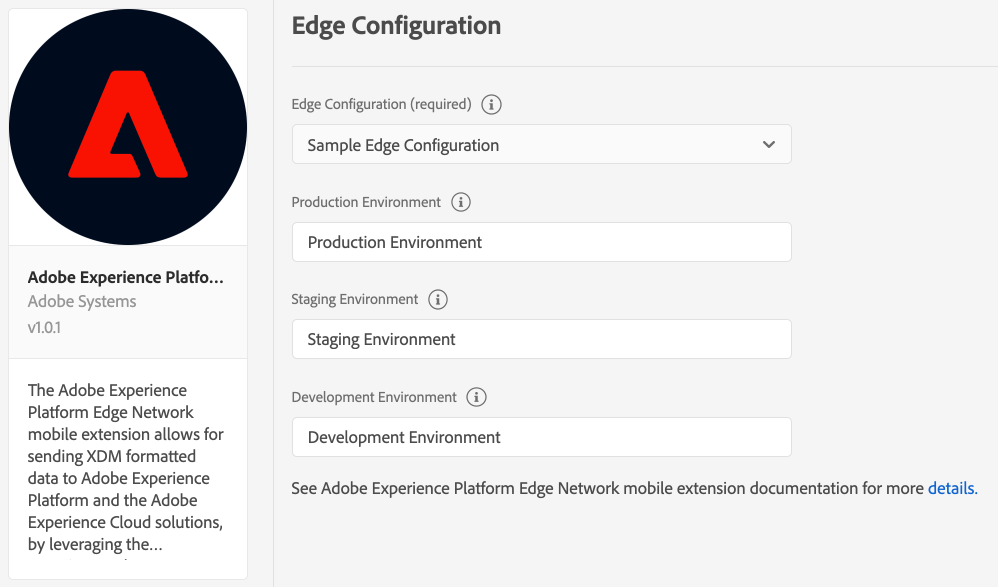
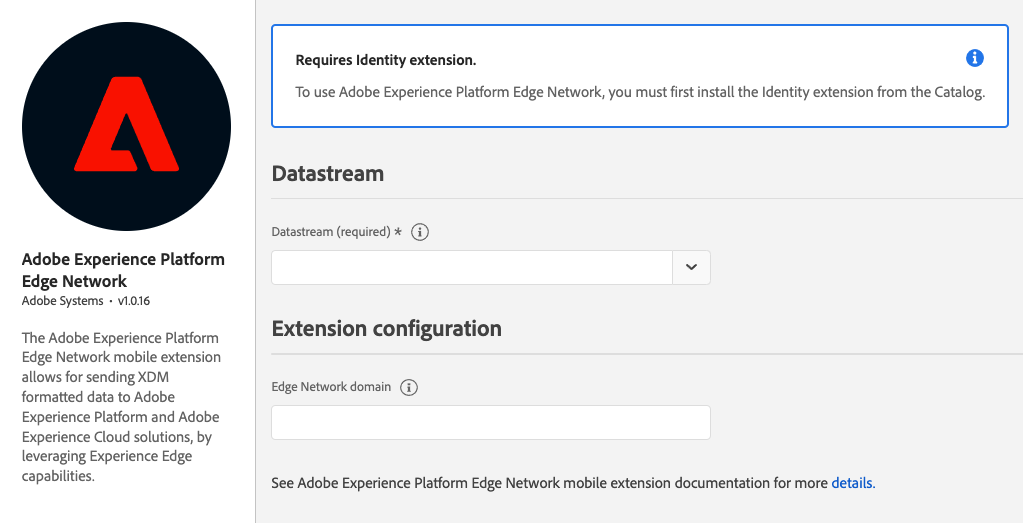
Update Edge configuration with new Launch UI and Edge Network domain field

diff --git a/foundation-extensions/experience-platform-extension/README.md b/foundation-extensions/experience-platform-extension/README.md
@@ -16,21 +16,25 @@ The Adobe Experience Platform Edge Network extension requires the Identity for E
 4. Click **Save**.
 5. Follow the publishing process to update SDK configuration.
 
-### Configure the Edge Network extension
-
 ![Edge Network extension configuration](../../.gitbook/assets/mobile-edge-launch-configuration.png)
 
 ### Datastreams
 
-Select the `Edge Configuration` from the drop-down list. Once you do that, the Production, Staging and Development Environments will be automatically prefilled. If no Edge configuration was previously created, see [Configure datastreams](../../getting-started/configure-datastreams.md).
+Select the `Datastream` from the drop-down list. Once you do that, the Production, Staging and Development Environments will be automatically prefilled. If no Datastream was previously created, see [Configure datastreams](../../getting-started/configure-datastreams.md).
 
 If you use multiple Development configurations, select the desired one from the `Development Environment` drop-down.
 
-The Edge configuration used by the client-side implementation is one of the followings:
+The Datastream used by the client-side implementation is one of the followings:
 
 * the `Production Environment` configuration when the Launch library is published to production \(in the Published column in the Launch publishing flow\).
 * the`Staging Environment` configuration when the Launch library is published to staging \(in the Submitted column in the Launch publishing flow\).
 * the `Development Environment` configuration when the Launch library is in development.
+
+### Edge Network domain
+
+If you have a first-party domain mapped to the Adobe-provisioned Edge Network domain, enter it here. The domain name is expected to be just the domain without any protocal or trailing slash. To use the default Adobe Edge Network domain, leave this field blank.
+
+Entering an Edge Network domain will add an `edge.domain` key in the mobile property. 
 
 ## Add the Edge Network extension to your app
 
